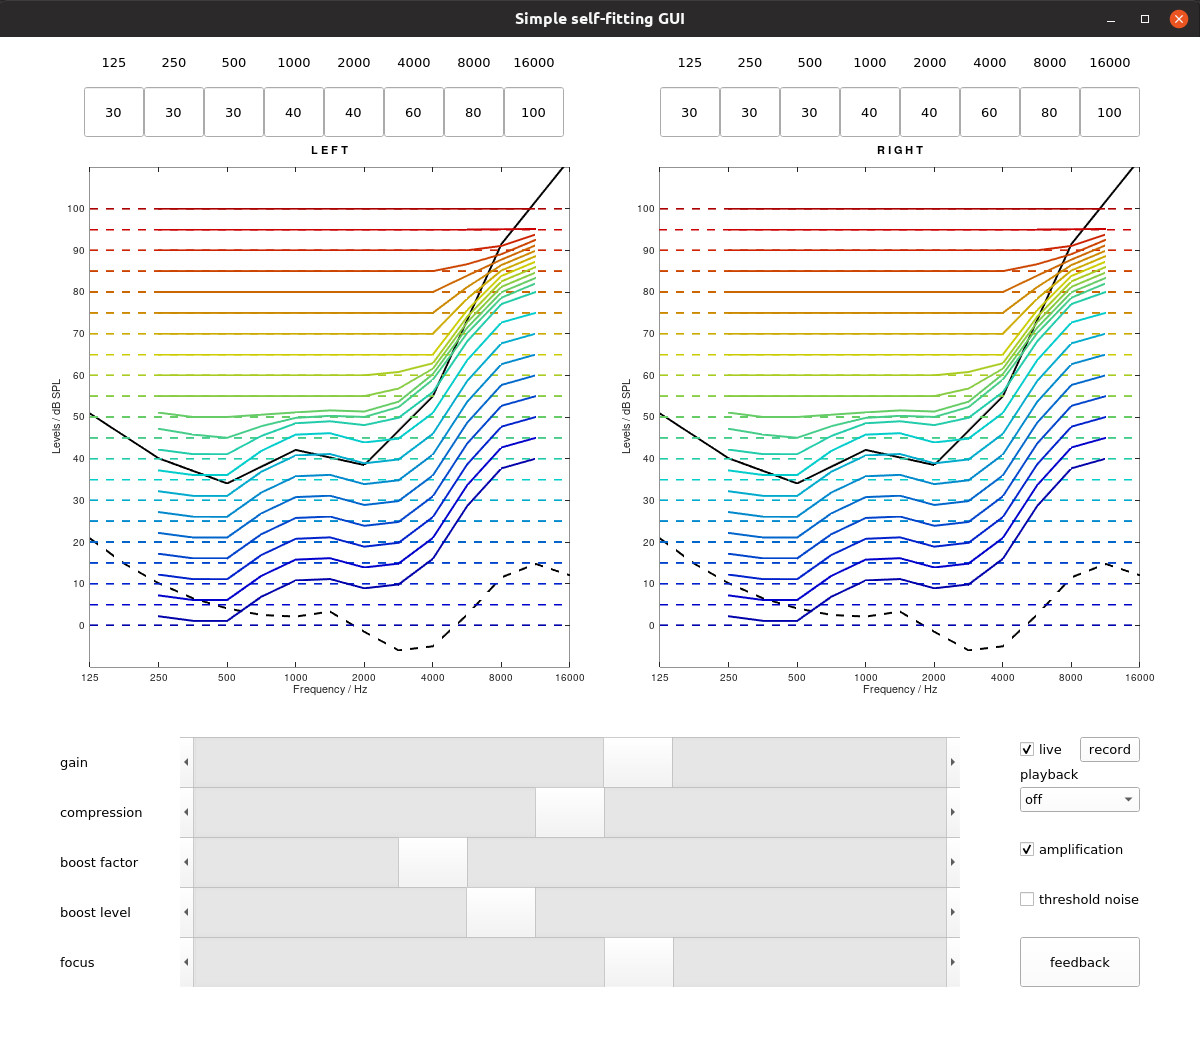
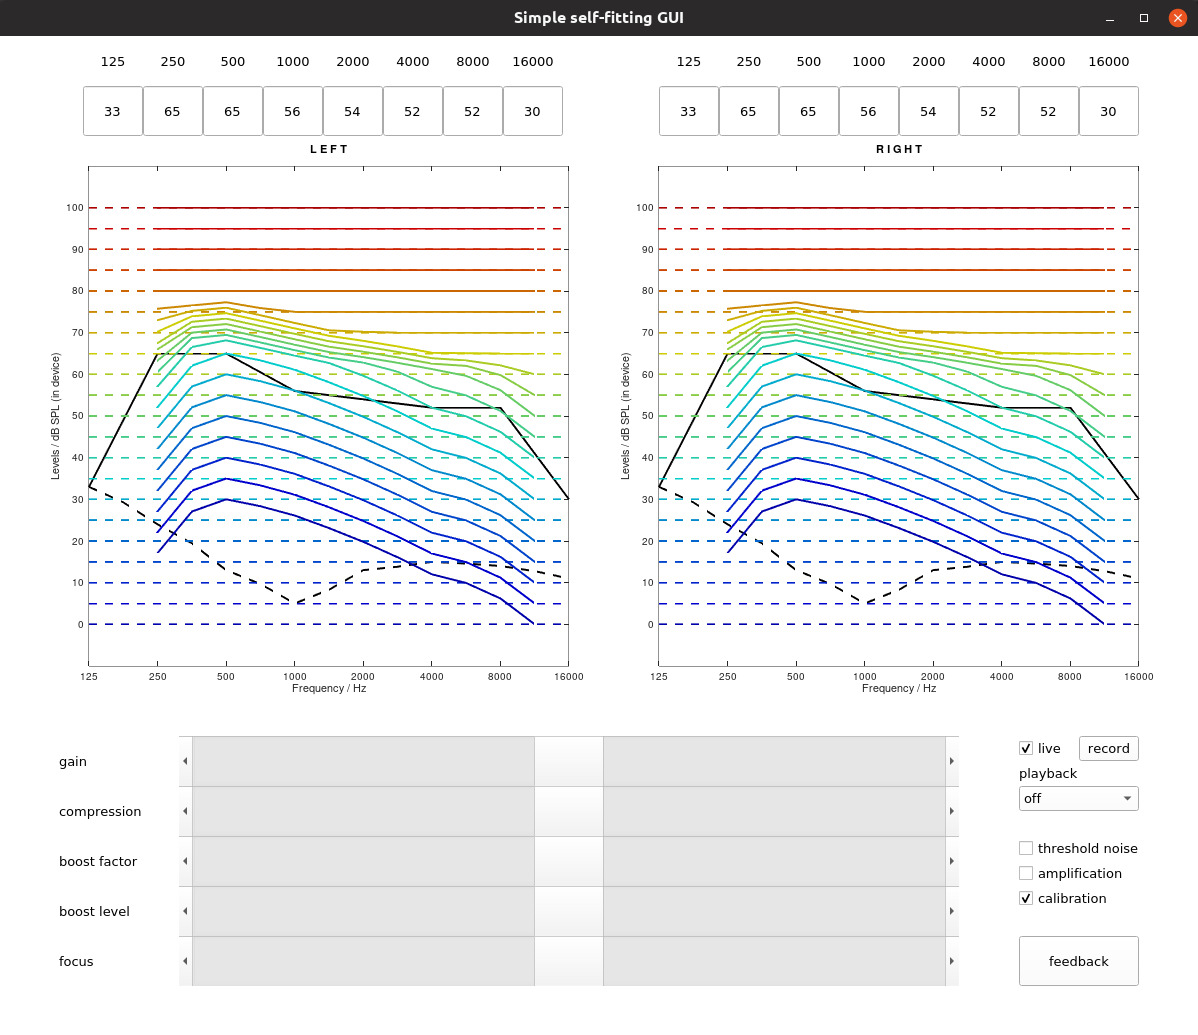
[selffit] Add an estimated normal hearing threshold and update figure

diff --git a/tools/selffitting_gui.m b/tools/selffitting_gui.m
@@ -12,10 +12,11 @@ clear
 clc
 
 thresholds_freqs = [125 250 500 1000 2000 4000 8000 16000];
-thresholds_init  = [ 30  65  65   56   54   52   52    30]; % dB SPL at mic
+thresholds_init  = [ 33  65  65   56   54   52   52    30]; % dB SPL at mic
+normal_threshold = [ 33  24  13    5   13   15   14    11]; % Estimated
 
 plot_freqs = 1000 .* 2.^(-3:0.5:4);
-normal_hearing_threshold = zeros(size(plot_freqs));
+plot_threshold = interp1(thresholds_freqs,normal_threshold,plot_freqs);
 plot_levels = 0:5:100;
 plot_colors = jet(length(plot_levels)).*0.8;
 
@@ -26,7 +27,7 @@ figure('Position', [ 500 200 1200 1000],
        'menubar', 'none');
 h.thresholds_freqs = thresholds_freqs;
 h.plot_freqs = plot_freqs;
-h.normal_hearing_threshold = normal_hearing_threshold;
+h.plot_threshold = plot_threshold;
 h.plot_levels = plot_levels;
 h.plot_colors = plot_colors;
 
@@ -38,7 +39,7 @@ for i=1:2
   h_threshold = plot(log(thresholds_freqs), zeros(size(thresholds_freqs)),'-k','linewidth',2);
   hold on;
   title(position_title{i});
-  plot(log(plot_freqs), normal_hearing_threshold,'--k','linewidth',2);
+  plot(log(plot_freqs), plot_threshold,'--k','linewidth',2);
   xlim(log([min(plot_freqs) max(plot_freqs)]));
   ylim([-10 110]);
   set(gca,'xtick',log(plot_freqs(1:2:end)));
